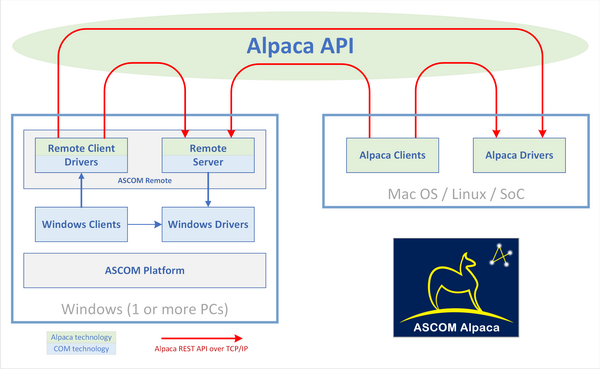
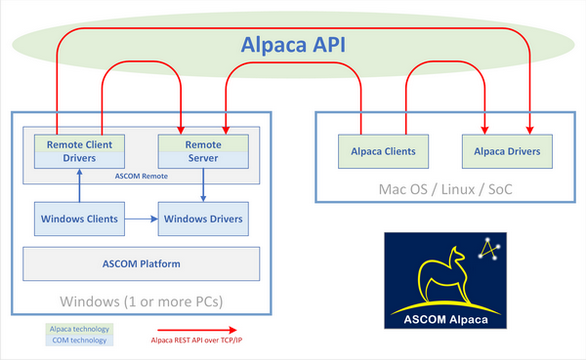
More adjustments to the contant for Alpaca

diff --git a/ascom-standards.org/Developer/Alpaca.htm b/ascom-standards.org/Developer/Alpaca.htm
@@ -1,6 +1,6 @@
 <!DOCTYPE html PUBLIC "-//W3C//DTD XHTML 1.0 Transitional//EN" "DTD/xhtml1-transitional.dtd">
-<html xmlns="http://www.w3.org/1999/xhtml"><!-- #BeginTemplate "/Templates/Fixed_Fluid.dwt" --><!-- DW6 -->
- 
+<html xmlns="http://www.w3.org/1999/xhtml"><!-- #BeginTemplate "/Templates/Fixed_Fluid_Fixed.dwt" --><!-- DW6 -->
+
 <head>
 
 <meta http-equiv="Content-Type" content="text/html; charset=iso-8859-1">
@@ -12,39 +12,30 @@
 <!-- #BeginEditable "Title" -->
 <title>ASCOM Alpaca</title>
 <!-- #EndEditable -->
-
-<link rel="stylesheet" type="text/css" href="../Styles/Fixed_Fluid.css" />
-
+<link rel="stylesheet" type="text/css" href="../Styles/Fixed_Fluid_Fixed.css" />
 <script type="text/javascript" language="javascript" src="../jscripts/Navigation.js"></script>
-
 </head>
- 
+
 <body>
 
 <div id="banner">
 	<img style="position: absolute; top: 20px; left: 20px;" alt="ASCOM Standards for Astronomy" src="../Images/ASCOM-Logo.jpg" />
-	
 	<div id="breadcrumbs">
-	<script type="text/javascript" language="javascript">
+		<script type="text/javascript" language="javascript">
 	<!-- 
 	breadcrumbs(); 
 	-->
 	</script>
-</div>
-
+	</div>
 	<div class="topmenucontainer">
-    <script type="text/javascript" language="javascript">
+		<script type="text/javascript" language="javascript">
       <!-- 
 	        writemainmenu();
 	        -->
     </script>
-  </div>
+	</div>
 </div>
-
-
-
 <div id="leftcontent">
-
 
 	<div class="LeftNav">
 	<div class="center"><div class="north"><div class="south">
@@ -56,14 +47,16 @@
 	
 	</div></div></div></div>
 
+
 	<!-- #BeginEditable "LeftNav" -->
-	<p align="center"><a href="https://ascomtalk.groups.io/g/Developer" target="_new"><img src="../Images/Groups.io.jpg" width="188" height="53" vspace="8" border="0" alt="Join or Visit the ASCOM Talk group" /><br />
-	Visit the ASCOM-Talk Developers Forum</a></p>
+	<p align="center"><a href="https://ascomtalk.groups.io/g/Developer" target="_new" style="font-size:larger"><img src="../Images/Groups.io.jpg" width="188" height="53" vspace="8" border="0" alt="Join or Visit the ASCOM Talk group" /><br />
+	Visit the ASCOM-Talk<br />
+	Developers Forum</a></p>
 	<!-- #EndEditable --></div>
 <div id="centercontent">
 	<!-- #BeginEditable "MainContent" -->
 	<div class="article">
-	<h3>Introduction to Alpaca</h3>
+	<h3>Introduction to ASCOM Alpaca</h3>
 
 <p>For over twenty years ASCOM has enabled astronomy programs to connect to ASCOM-compliant astronomical devices through standard APIs built on Microsoft COM technology. These APIs have been (and still are) very successful and support a wide variety of astronomy programs and devices that run together on a single Windows PC.
 </p>
@@ -80,9 +73,10 @@
 <li>Current unmodified Windows astronomy programs to use ASCOM compatible devices connected to any networked PC or Alpaca device.</li>
 </ul></p>
 
-<div align="center"><img src="../Images/AlpacaOverview.png" width="600" height="369" /></div>
+<div align="center"><a href="https://ascom-standards.org/api/" title="View the ASCOM Alpaca API" target="_new"><img src="../Images/AlpacaOverview.png" width="586" height="360" border="0" /></a></div>
 
-<p>The&nbsp;<a href="https://github.com/ASCOMInitiative/ASCOMRemote/releases" target="_new">introduction of ASCOM Remote</a>&nbsp;in 2018 began the process of extending the ASCOM ecosystem to include the internet, Linux, and MacOS, including small embedded controllers like the Arduino and Raspberry Pi as well as astronomy software on those platforms that wish to use instruments which are hosted on Windows systems. As of early 2019, this effort has grown into a new wave of development, with several astronomy instrument vendors embracing the implementation of the ASCOM Interfaces as ReST end-points, reachable over the internet. Now known as ASCOM Alpaca, the next steps are being taken. This effort is much farther along that you might imagine.</p>
+<p>The&nbsp;introduction of <a href="https://github.com/ASCOMInitiative/ASCOMRemote" target="_new">ASCOM Remote</a>&nbsp;in 2018 began the process of extending the ASCOM ecosystem to include the internet, Linux, and MacOS, including small embedded controllers like the Arduino and Raspberry Pi as well as astronomy software on those platforms that wish to use instruments which are hosted on Windows systems. </p>
+<p>As of early 2019, this effort has grown into a new wave of development, with several astronomy instrument vendors embracing the implementation of the <a href="https://ascom-standards.org/api/" target="_new">ASCOM Alpaca API</a> as ReST end-points, reachable over the internet. This effort is much farther along that you might imagine.</p>
 
 <p>For a quick peek at an example of Alpaca technology have a look at this 8 minute video. This video is suitable for company management as it includes business strategic issues, engineering advantages and justification for using Alpaca protocols. If you're a developer interested in more detal and a demo, see the second video below.</p>
 
@@ -92,8 +86,56 @@
 
 <p align="center"><iframe width="560" height="315" src="https://www.youtube.com/embed/OeWWmtAREnk" frameborder="0" allow="accelerometer; autoplay; encrypted-media; gyroscope; picture-in-picture" allowfullscreen></iframe></p>
 
-<p>If you want more info, please post to the <a href="https://ascomtalk.groups.io/g/Developer" target="_new">ASCOM-Talk Developers Forum</a><br />
+<p>If you want more info, please post to the <a href="https://ascomtalk.groups.io/g/Developer" target="_new">ASCOM-Talk Developers Forum</a>. To get started <a href="https://github.com/ASCOMInitiative/ASCOMRemote/releases" target="_new">download and insall the current version of ASCOM Remote</a> to your Windows 7/10 PC and look at the <a href="https://github.com/ASCOMInitiative/ASCOMRemote/tree/master/Documentation" target="_new">included documentation</a> which includes the Alpaca protocols and standards.<br />
 <div align="center"><a href="https://ascomtalk.groups.io/g/Developer" target="_new"><img src="../Images/Groups.io.jpg" width="188" height="53" vspace="8" border="0" alt="Join or Visit the ASCOM Talk group" /></a></div></p></div>
+
+	<!-- #EndEditable --></div>
+<div id="rightcontent">
+	<!-- #BeginEditable "RightSideBar" -->
+<div align="center" style="margin-bottom:18px"> <a href="https://ascom-standards.org/api/" target="_new" title="View the ASCOM Alpaca API"><img src="../Images/AlpacaLogo210.png" width="210" height="166" /></a>
+</div>
+<div class="BlueBorder">
+	<!-- Images for container -->
+	<div class="north">
+	<div class="east">
+	<div class="south">
+	<div class="west">
+	<div class="ne">
+	<div class="se">
+	<div class="sw">
+	<div class="nw">
+	<div class="article">
+		<h3>Get Started</h3>
+		<p style="text-align: center">
+		<a href="https://github.com/ASCOMInitiative/ASCOMRemote/releases" target="_new">
+		<img alt="Download Latest Release" src="../Images/Button2.jpg" width="149" height="44" border="0" /></a>		</p>
+		<p>Download and install <a href="https://github.com/ASCOMInitiative/ASCOMRemote" target="_new">ASCOM Remote</a> to your Windows 7/10 system. <a href="https://github.com/ASCOMInitiative/ASCOMRemote/tree/master/Documentation" target="_new">Documentation</a> is included. <br />
+			<a href="https://ascom-standards.org/api/" target="_new">View the ASCOM Alpaca API</a></p>
+	</div>
+
+	</div></div></div></div></div></div></div></div>
+</div>
+
+<div class="BlueBorder">
+	<!-- Images for container -->
+	<div class="north">
+	<div class="east">
+	<div class="south">
+	<div class="west">
+	<div class="ne">
+	<div class="se">
+	<div class="sw">
+	<div class="nw">
+	<div class="article">
+		<h3>Developers Forum</h3>
+		<p style="text-align: center">
+		<a href="https://ascomtalk.groups.io/g/Developer">
+		<img alt="Go to Forum" src="../Images/VisitButton.jpg" width="149" height="44" border="0" /></a>		</p>
+		<p>Go to the ASCOM-Talk forum on Groups.io. You may apply for membership there.</p>
+	</div>
+
+	</div></div></div></div></div></div></div></div>
+</div>
 
 	<!-- #EndEditable --></div>
 <div id="footer">

diff --git a/ascom-standards.org/About/Projects.htm b/ascom-standards.org/About/Projects.htm
@@ -66,8 +66,10 @@
 		<p>The installer is available from the project home page. Just download the ASCOM Provisional Video SDK installer via the link below, then run the it.</p>
 		<pre style="font-size: larger; text-align: center;"><a href="http://www.hristopavlov.net/ASCOM/ASCOMProvisionalVideoSDK.exe">http://www.hristopavlov.net/ASCOM/ASCOMProvisionalVideoSDK.exe</a></pre>-->
 
-		<h3>Project: ASCOM Alpaca - Linux, MacOS, and Internet for ASCOM (2018-2019)</h3>
-		<p>The <a href="../Developer/Alpaca.htm">ASCOM Alpaca project</a> has already published the interfaces and protocols for extending the ASCOM ecosystem to Linux and MacOS, while providing access to existing unmodified Windows drivers and programs. For more information see the <a href="../Developer/Alpaca.htm">ASCOM Alpaca section here</a>. </p>
+	<h3>Project: ASCOM Alpaca - ASCOM is not just for Windows any more</h3>
+	<p><img src="../Images/AlpacaLogo560.png" width="130" height="103" hspace="8" align="right" />
+	The <a href="https://github.com/ASCOMInitiative/ASCOMRemote/releases" target="_new">introduction of ASCOM Remote</a> in 2018 began the process of extending the ASCOM ecosystem to include the internet, Linux, and MacOS, to include small embedded controllers like the Arduino and Raspberry Pi. As of early 2019, this effort has grown into a new wave of development, with several astronomy instrument vendors embracing the implementation of the ASCOM Interfaces as ReST resources, reachable over the internet. Now known as ASCOM Alpaca, the next steps are being taken. This effort is much farther along that you might imagine. If you are interested in learning more, visit the ASCOM Alpaca page:</p>
+	<p align="center" style="font-size:large;"><a href="Alpaca.htm">Learn More about ASCOM Alpaca</a></p>
 		<h3>Project: ASCOM Platform 6.4SP1 (completed, released September 2018)</h3>
 		<p>The current generation of the ASCOM Platform provides compatibility with Windows 7/8/10 enhanced security and 64-bit systems, greatly expanded support for .NET languages, the new <a href="#saftmon">SafetyMonitor</a> and <a href="#obscond">ObservingConditions</a> interfaces, and even more support for both drivers and astronomy applications. It contains  new simulators, updated Visual Studio driver templates, and much more. This huge Platform 6 project was first released in June 2011, and is now the standard for general use. The 6.4 Service Pack 1 update was provided in September 2018. For info on what has changed, please see the <a href="https://github.com/ASCOMInitiative/ASCOMPlatform/releases" target="_blank">GitHub Latest Release page and the release notes there</a>.</p>
 		<p>Most of you don't need to know what's going on inside the Platform. All you need to know is that it is a set of components that are used by ASCOM drivers and programs that work with ASCOM drivers. If you are a developer, see the <a href="../Developer/Index.htm">Developer Resources section</a> of this site. 

diff --git a/ascom-standards.org/FAQs/Plat6OnXP.htm b/ascom-standards.org/FAQs/Plat6OnXP.htm
@@ -61,7 +61,7 @@
 	<div class="article">
 	<h3>Installing the ASCOM Platform on Windows XP</h3>
 	<p>As of 2018, the ASCOM Initiative no longer supports the Platform on Windows XP. It is possible that it will still work, however some drivers and possibly the Platform itself, may depend on features and fixes that Microsoft has provided since XP. Please don't ask for help with XP. We don't test with it and you should really move on.	XP came out 17 years ago.
-	<p>FOr reference, here is what we published relating to XP: The ASCOM Platform depends on Microsoft technology that is included in Windows 7 but was not included in Windows XP. This has caused confusion because the ASCOM Platform installer asks for Microsoft .NET Framework x.x. To make a long story short, here's what you need to do before installing the ASCOM Platform on WIndows XP:	
+	<p>For reference, here is what we published relating to XP: The ASCOM Platform depends on Microsoft technology that is included in Windows 7 but was not included in Windows XP. This has caused confusion because the ASCOM Platform installer asks for Microsoft .NET Framework x.x. To make a long story short, here's what you need to do before installing the ASCOM Platform on WIndows XP:	
 	<ol>
 		<li>Ensure you have Windows XP Service Pack 3 installed. See	<a href="http://support.microsoft.com/kb/322389" target="_blank">http://support.microsoft.com/kb/322389</a></li>
 		<li>Install ONLY the .NET Framework 3.5 SP1. This includes everything you need for the ASCOM Platform. See <a href="http://www.microsoft.com/en-us/download/details.aspx?id=22" target="_blank">http://www.microsoft.com/en-us/download/details.aspx?id=22</a></li>

diff --git a/ascom-standards.org/Downloads/Index.htm b/ascom-standards.org/Downloads/Index.htm
@@ -86,6 +86,9 @@
 		<h3>Developer Downloads</h3>
 		<p>The most useful item here (under <a href="DevTools.htm" target="_blank">Additional Tools</a>) is the <a href="../Developer/Conformance.htm" target="_blank">Conformance Checker</a> (written by Peter Simpson). This tool can be used to check many aspects of yor driver against the relevant ASCOM specification.		<!--<h3>Older ASCOM Platform (4.1)</h3>
 		<p>This older platform is for <span class="underline">Windows 2000 users only</span>! Do not install this in the hopes that some problem will be resolved. Work with us on the ASCOM-Talk list to resolve your problem. If, and only if, you are running Windows 2000, you can download and install the <a href="http://download.ascom-standards.org/ascom41.exe">ASCOM Platform 4.1</a>.</p>-->	</p>
+		
+		<h3>ASCOM Alpaca Cross-Platform Downloads</h3>
+		<p>For more information and download links, see the <a href="../Developer/Alpaca.htm">separate ASCOM Alpaca page here</a>.</p>
 	</div>
 		
 	<!-- #EndEditable --></div>

diff --git a/ascom-standards.org/jscripts/Navigation.js b/ascom-standards.org/jscripts/Navigation.js
@@ -156,6 +156,7 @@ function writesubmenu() {
     	SubMenuOutput += "<h3>Additional Downloads</h3>";
 	    SubMenuOutput += "<ul class=\"treeview\">";
 	    SubMenuOutput += "<li><a href=\"ScriptableComponents.htm\">Scriptable Components</a></li>";
+	    SubMenuOutput += "<li><a href=\"https://github.com/ASCOMInitiative/ASCOMRemote/releases\" target=\"_new\">ASCOM Remote (Alpaca)</a></li>";
 	    SubMenuOutput += "</ul>";
     	SubMenuOutput += "<h3>Developer Downloads</h3>";
 	    SubMenuOutput += "<ul class=\"treeview\">";
@@ -210,6 +211,7 @@ function writesubmenu() {
         SubMenuOutput += "<h3>Cross-Platform &amp; Internet</h3>";
 	    SubMenuOutput += "<ul class=\"treeview\">";
 		SubMenuOutput += "<li><a href=\"Alpaca.htm\">Introduction to Alpaca</a></li>";
+		SubMenuOutput += "<li><a href=\"https://ascom-standards.org/api/\" target=\"_new\">ASCOM Alpaca API</a></li>";
 	    SubMenuOutput += "</ul>";
        break;
     case 6: // Community
